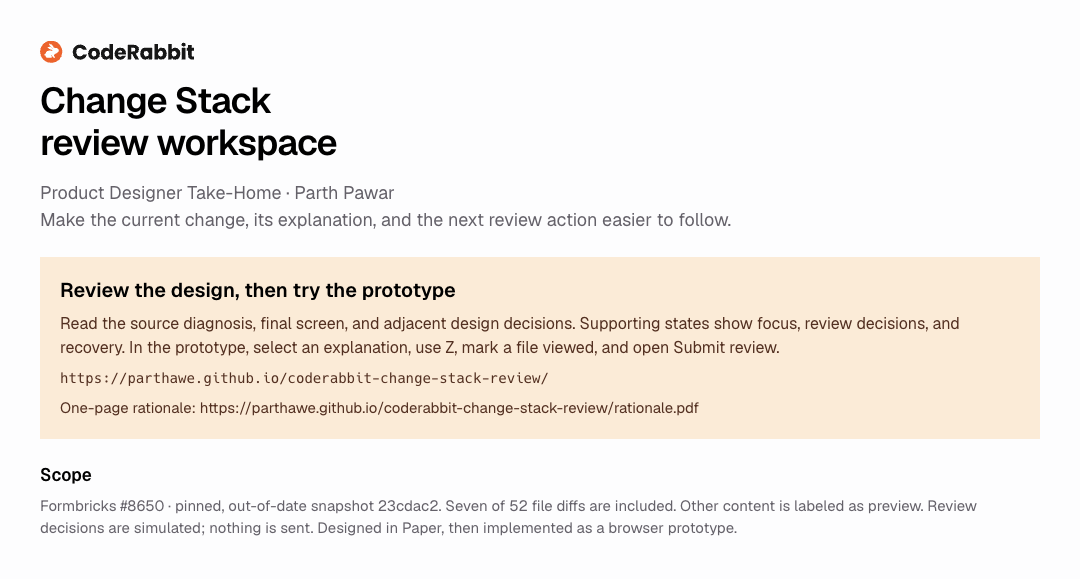
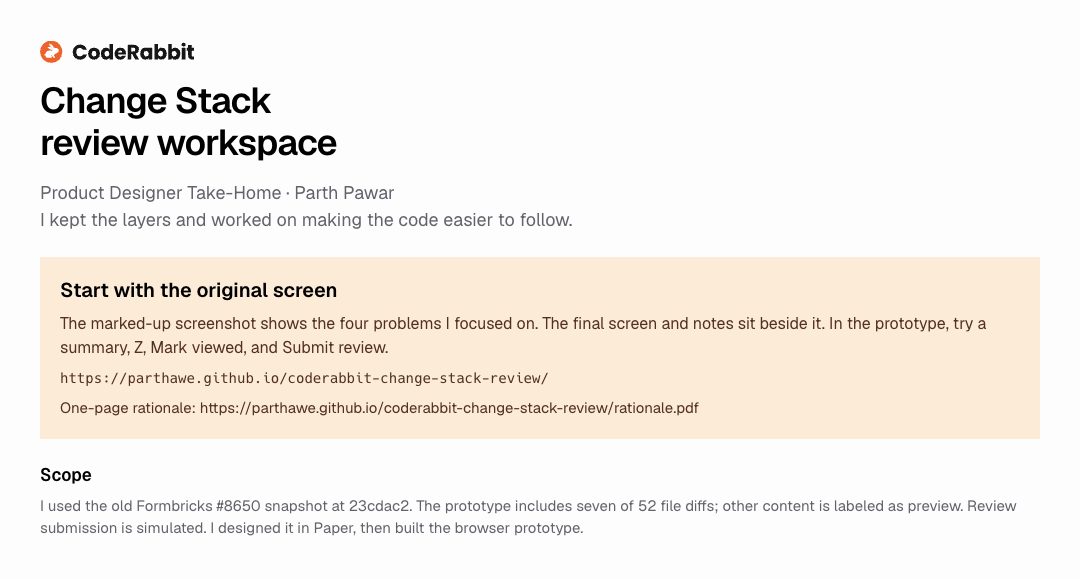
Rewrite Paper reasoning and rationale in a direct personal voice

Changed region(s): [[0.0611, 0.4663, 0.9167, 0.6218], [0.0306, 0.8394, 0.9472, 0.9326], [0.0306, 0.3731, 0.6722, 0.4041]]

diff --git a/dist/rationale.html b/dist/rationale.html
@@ -1,1 +1,1 @@
-<!doctype html><html lang="en"><head><meta charset="utf-8"><meta name="viewport" content="width=device-width,initial-scale=1"><title>Change Stack — Design rationale</title><link rel="stylesheet" href="styles.css?v=brand-20261019"><style>body{display:block;overflow:auto;height:auto;min-width:0;background:white}article{max-width:850px;margin:64px auto;padding:0 32px 48px}h1{white-space:normal;font-size:32px;line-height:1.2;letter-spacing:-.03em;font-weight:600}h2{font-size:18px;margin:28px 0 12px}p{margin:12px 0;line-height:1.6;color:#65616a}table{border-collapse:collapse;width:100%;font-size:14px;margin:20px 0}th{text-align:left;color:#211f24;font-weight:500;background:#faf8fb}td,th{padding:14px 16px;border-bottom:1px solid #e3e0e7;vertical-align:top}td:first-child{width:36%;font-weight:500;color:#211f24}nav{margin-bottom:24px}.byline{font-size:13px;color:#65616a;margin-top:16px}.small{font-size:12px}@media print{article{margin:0;padding:0}nav{display:none}h1{font-size:24px}body{font-size:12px}table{font-size:11px}td,th{padding:10px}h2{font-size:15px;margin:18px 0 8px}@page{size:A4;margin:18mm}}</style><link rel="stylesheet" href="brand.css?v=brand-20261019"></head><body><article><nav><a href="index.html">Prototype</a> · <a href="https://app.paper.design/file/01M5AQACJZP42ZGTRX7GF9ERE7/p-1-0/1YS-0">Paper design</a> · <a href="comparison.html">Original and redesign</a> · <a href="rationale.pdf">PDF</a></nav><h1>Keep the current change in view.</h1><p class="byline">CodeRabbit Change Stack · Formbricks #8650 · Parth Pawar</p><p>A reviewer must locate the change, inspect its evidence, and decide what to do next. I kept Change Stack’s layer model and reorganized the screen around that sequence. Four observations from the assigned PR drove the design.</p><table><thead><tr><th>Observation</th><th>Decision and reason</th></tr></thead><tbody><tr><td>Layer and file navigation require repeated orientation.</td><td>Keep the selected layer, file, and path together. Disclose the nine-file list on demand so the rail stays scannable.</td></tr><tr><td>Several toolbars compete with the diff.</td><td>Group frequent file actions in one sticky toolbar. Keep Submit review in the PR header; secondary capabilities retain labeled destinations.</td></tr><tr><td>Summary scope is easy to misread: 37 in the layer, six for access.ts.</td><td>Label file and layer scope. Preserve existing summary-to-code linking and use matching selection to show the active range.</td></tr><tr><td>Summary seen, file viewed, and final review are distinct progress signals.</td><td>Give each a separate action and count. Opening a file does not mark it viewed. A review decision requires an explicit dialog.</td></tr></tbody></table><h2>Tradeoff</h2><p>Persistent context costs code width. Z hides the side panels while preserving position; below 1280 px, context becomes an overlay. Keeping layers preserves a familiar review order and avoids adding a new review workflow.</p><h2>Validation</h2><p>The prototype checks linked selection, reversible progress, keyboard navigation, and focus restoration. Next, test whether developers can locate a file, connect a summary to code, and explain what remains to review. No measured usability gain is claimed.</p><p class="small">Formbricks #8650, pinned snapshot 23cdac2 (out of date). Seven of 52 file diffs are included; other content is labeled as preview. Complete capability parity is unverified. Reviews are simulated and nothing is sent.</p></article></body></html>
+<!doctype html><html lang="en"><head><meta charset="utf-8"><meta name="viewport" content="width=device-width,initial-scale=1"><title>Change Stack — Design rationale</title><link rel="stylesheet" href="styles.css?v=brand-20261019"><style>body{display:block;overflow:auto;height:auto;min-width:0;background:white}article{max-width:850px;margin:64px auto;padding:0 32px 48px}h1{white-space:normal;font-size:32px;line-height:1.2;letter-spacing:-.03em;font-weight:600}h2{font-size:18px;margin:28px 0 12px}p{margin:12px 0;line-height:1.6;color:#65616a}table{border-collapse:collapse;width:100%;font-size:14px;margin:20px 0}th{text-align:left;color:#211f24;font-weight:500;background:#faf8fb}td,th{padding:14px 16px;border-bottom:1px solid #e3e0e7;vertical-align:top}td:first-child{width:36%;font-weight:500;color:#211f24}nav{margin-bottom:24px}.byline{font-size:13px;color:#65616a;margin-top:16px}.small{font-size:12px}@media print{article{margin:0;padding:0}nav{display:none}h1{font-size:24px}body{font-size:12px}table{font-size:11px}td,th{padding:10px}h2{font-size:15px;margin:18px 0 8px}@page{size:A4;margin:18mm}}</style><link rel="stylesheet" href="brand.css?v=brand-20261019"></head><body><article><nav><a href="index.html">Prototype</a> · <a href="https://app.paper.design/file/01M5AQACJZP42ZGTRX7GF9ERE7/p-1-0/1YS-0">Paper design</a> · <a href="comparison.html">Original and redesign</a> · <a href="rationale.pdf">PDF</a></nav><h1>What I changed in Change Stack</h1><p class="byline">CodeRabbit Change Stack · Formbricks #8650 · Parth Pawar</p><p>The original has a lot competing with the code. I kept the layer structure and focused on making it easier to see which file you&#x27;re reviewing, how a summary relates to its code, and what you&#x27;ve finished.</p><table><thead><tr><th>What got in the way</th><th>What I changed</th></tr></thead><tbody><tr><td>The layer, file path, and file position are spread across the screen.</td><td>I kept the selected layer, file, and path together. The full nine-file list opens when you need it, so the left rail stays short.</td></tr><tr><td>Several rows of file controls compete with the diff.</td><td>I put the frequent file actions in one toolbar and left Submit review in the PR header. The other tools are still available by name.</td></tr><tr><td>The 37-summary count belongs to the layer. access.ts has six.</td><td>I labeled both counts and kept the summary-to-code link. Matching highlights and a brief emphasis at the destination help you follow the jump.</td></tr><tr><td>Seen summaries, viewed files, and a submitted review mean different things.</td><td>I separated those actions and counts. Opening a file doesn&#x27;t mark it viewed. Mark viewed has Undo, and submitting a review requires a separate decision.</td></tr></tbody></table><h2>The right panel takes space</h2><p>The right panel leaves less room for code. Z hides the side panels without losing your place. Below 1280px, context opens as an overlay.</p><h2>What I checked</h2><p>I checked summary jumps, Undo after switching files, J/K, Z, and dialog focus. I&#x27;d still test this with developers: can they find a file, follow a summary to code, and explain what&#x27;s left to review? I haven&#x27;t measured a speed improvement.</p><p class="small">This uses the out-of-date Formbricks #8650 snapshot at 23cdac2. Seven of 52 diffs are included. Other content is labeled as a preview; not every source workflow is implemented. Submitting a review is simulated and sends nothing.</p></article></body></html>

diff --git a/docs/verification.md b/docs/verification.md
@@ -79,3 +79,9 @@ The public path passed summary linking (31 rows at 156–186), file Undo after n
 Found and fixed one misleading state: returning from an open comment to Summaries previously left the comment’s code range selected. After the fix, tab switches restore 156–186 for the selected summary and 75–90 for the historical thread. Hiding resolved comments restores the summary range. A local note restored its single-line range and retained its draft through both tabs. The Paper flow specification now records this behavior and was visually checked without clipping.
 
 JavaScript syntax, whitespace checks, and one scoped mechanical detector pass passed. The rationale is one page. A fresh unsigned-in Paper browser redirected to sign-in; the public prototype and rationale are the access-free review path. This check does not establish full capability parity or measured usability improvement.
+
+## Reasoning copy pass · October 20, 2026
+
+Rewrote the final Paper page’s introduction, source diagnoses, design reasoning, interaction notes, and source-error explanation in the same direct, first-person tone as the submission message. Product labels, exact source content, PR counts, and behavior were kept. Archived explorations were outside this copy pass.
+
+The five changed Paper boards were visually inspected for wrapping and fit, then exported as current native PNGs and raw JSX. The rationale PDF and HTML use the same source copy in rationale-content.json. The PDF remains one page; its rendered page was checked for readable type, table wrapping, spacing, and clipping. The HTML was inspected at 1280px and checked at 880px with no document overflow. The wording retains the code-width tradeoff, limited content coverage, simulated submission, and the need for developer usability testing.

diff --git a/README.md b/README.md
@@ -9,7 +9,7 @@ Design exercise by Parth Pawar for the assigned Formbricks PR #8650.
 
 ## Design argument
 
-Keep the current change in view. The final screen retains layer-based review, groups file actions, makes summary scope explicit, and separates seen/viewed progress from the review decision. Paper contains the source diagnosis, final screen, design decisions, and interaction states.
+The original has a lot competing with the code. I kept the layers, brought the frequent file controls together, and made the link between a summary and its code clearer. Marking a file viewed stays separate from submitting a review. Paper shows the original screen, what I changed, and why.
 
 ## Try it
 
